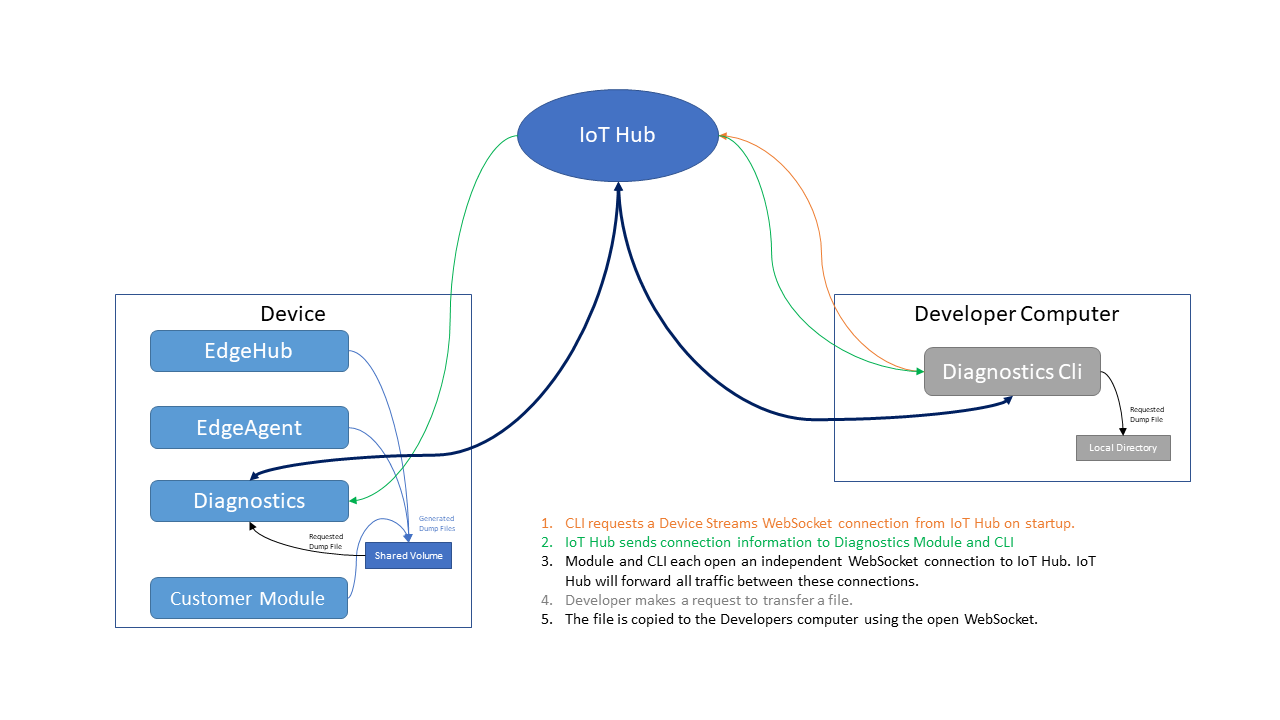
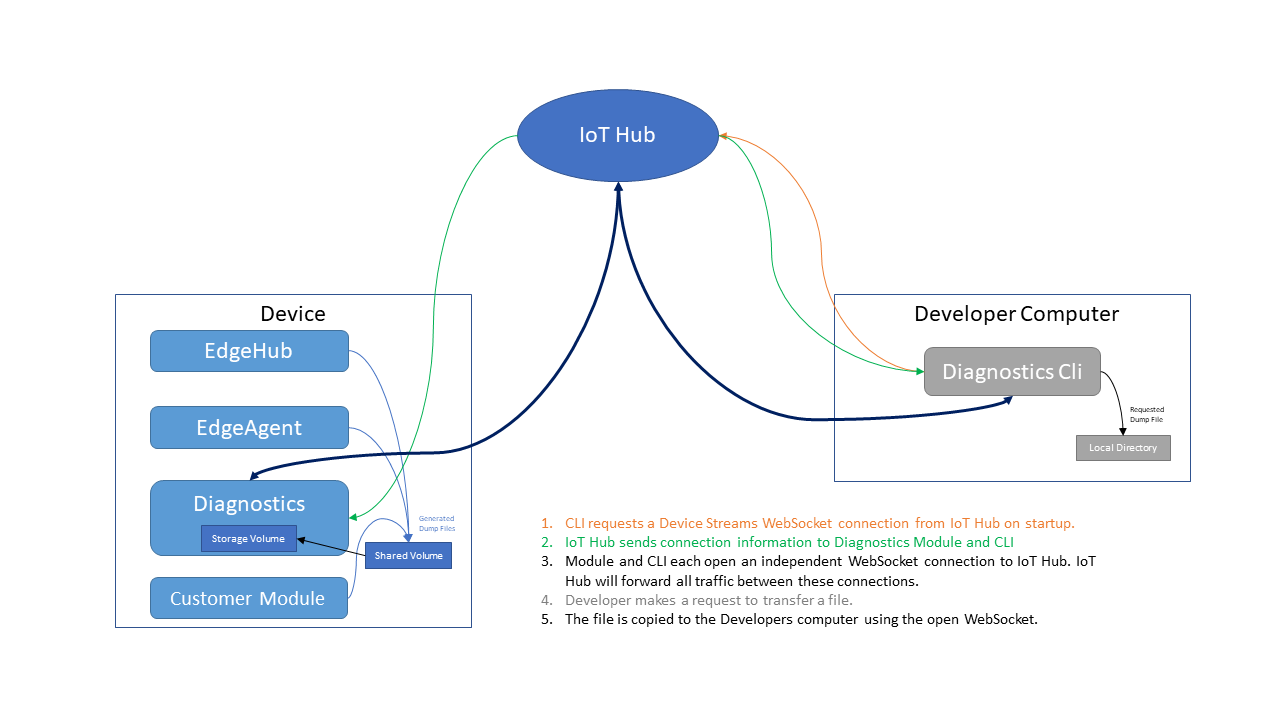
update readme

diff --git a/DiagnosticsCli/CommandRegister.cs b/DiagnosticsCli/CommandRegister.cs
@@ -11,7 +11,7 @@ namespace DiagnosticsCli
     {
         /// <summary>
         ///     Registers all commands
-        ///         getfile -s <targetFileName> -d <destinationFileName> : sends file from module to cli device
+        ///         copyfile -s <targetFileName> -d <destinationFileName> : sends file from module to cli device
         ///         ls : lista files in module shared folder
         /// </summary>
         /// <param name="manager"></param>
@@ -40,7 +40,7 @@ namespace DiagnosticsCli
                             {"-d", setDest }
                         };
 
-            parser.RegisterCommand("getfile", async () =>
+            parser.RegisterCommand("copyfile", async () =>
             {
                 if (source == null)
                 {

diff --git a/modules/DeviceDiagnostics/Controllers/FileController.cs b/modules/DeviceDiagnostics/Controllers/FileController.cs
@@ -12,7 +12,7 @@ namespace DeviceDiagnostics.Controllers
     [ApiController]
     public class FileController : ControllerBase
     {
-        public static readonly Lazy<string> SHARED_DIRECTORY = new Lazy<string>(() => Environment.GetEnvironmentVariable("TARGET_DIRECTORY"));
+        public static readonly Lazy<string> SHARED_DIRECTORY = new Lazy<string>(() => Environment.GetEnvironmentVariable("STORAGE_DIRECTORY"));
 
         // GET api/file?filename=
         [HttpGet]

diff --git a/README.md b/README.md
@@ -1,5 +1,20 @@
 # Diagnostics Module
 This module used device streams to pull diagnostics data from an Anure IoT Edge device. It currently supports copying dump files to a developers machine using a command line interface.
 
+## Usage
+### Module
+Deploy the diagnostics module to the device. The module has 2 required and 2 optional environment variables.
+* ```INCOMING_DIRECTORY``` (r): Location other modules will leave their dumps. This should be a shared volume.
+* ```STORAGE_DIRECTORY``` (r): The location dumps will be stored. The CLI will copy files from here.
+* ```MAX_DISK_BYTES```: Maximum total file size that will be stored in ```STORAGE_DIRECTORY```. Default infinity.
+* ```MAX_DISK_PERCENT```: Maximum percentage of disk used by stored files. Default ```50```.
+
+[Example deployment manifest](docs\example_deployment.amd64.json)
+
+### CLI
+Once the module is deployed, the command line can be used with the following commands.
+* ```ls```: list files avaliable to copy
+* ```copyfile -s <targetFileName> -d <destinationFileName>```: copys \<targetFileName\> from module to developer's computer
+
 ## Model
-![model][docs/DiagnosticsModule.png] "Diagnostics Module"
+![model](docs/DiagnosticsModule.png "Diagnostics Module"  )
